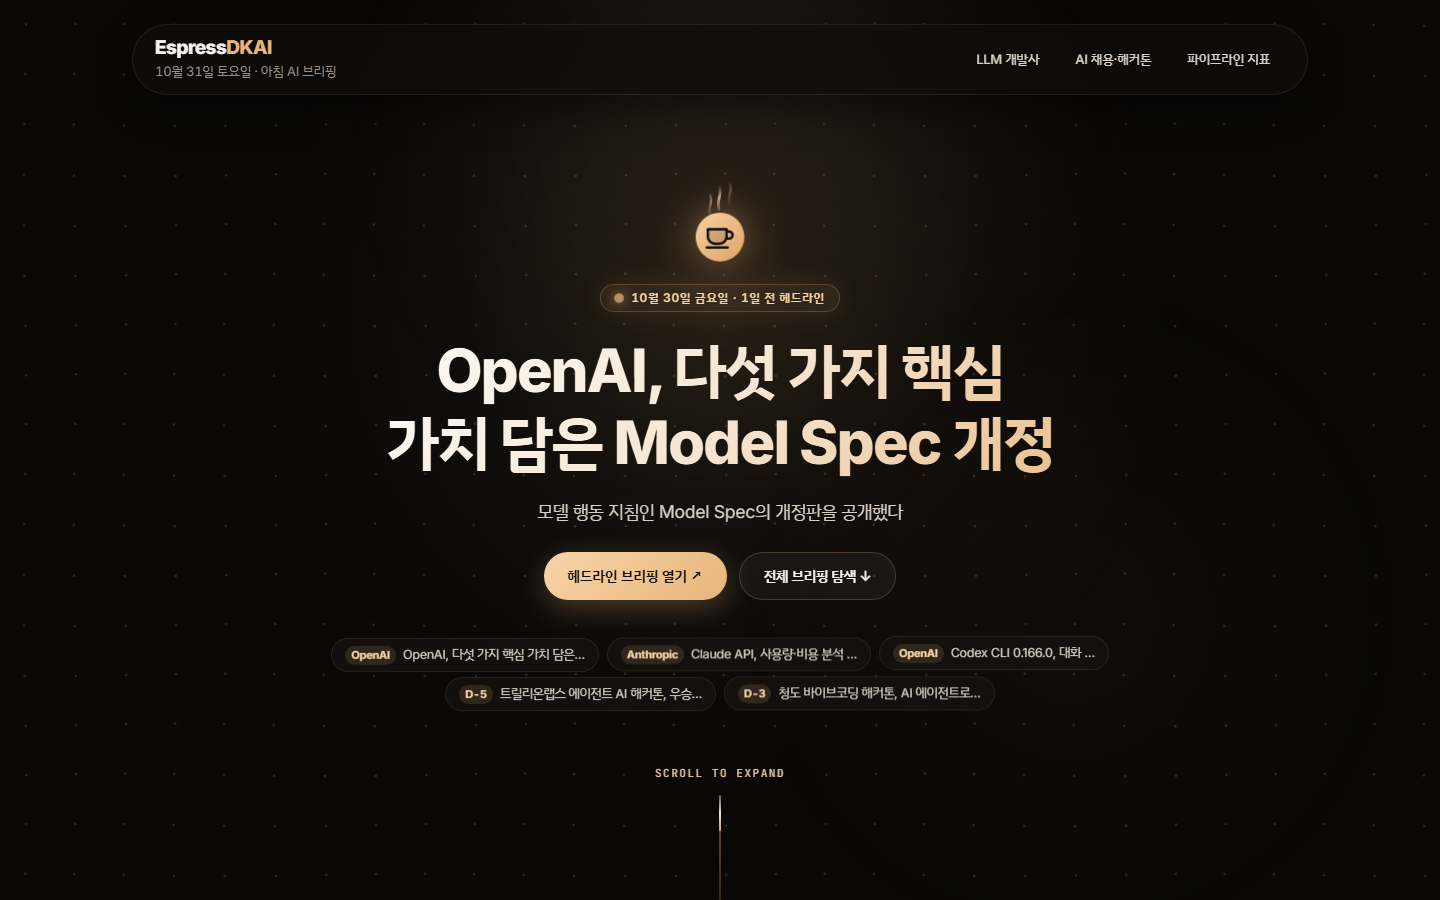
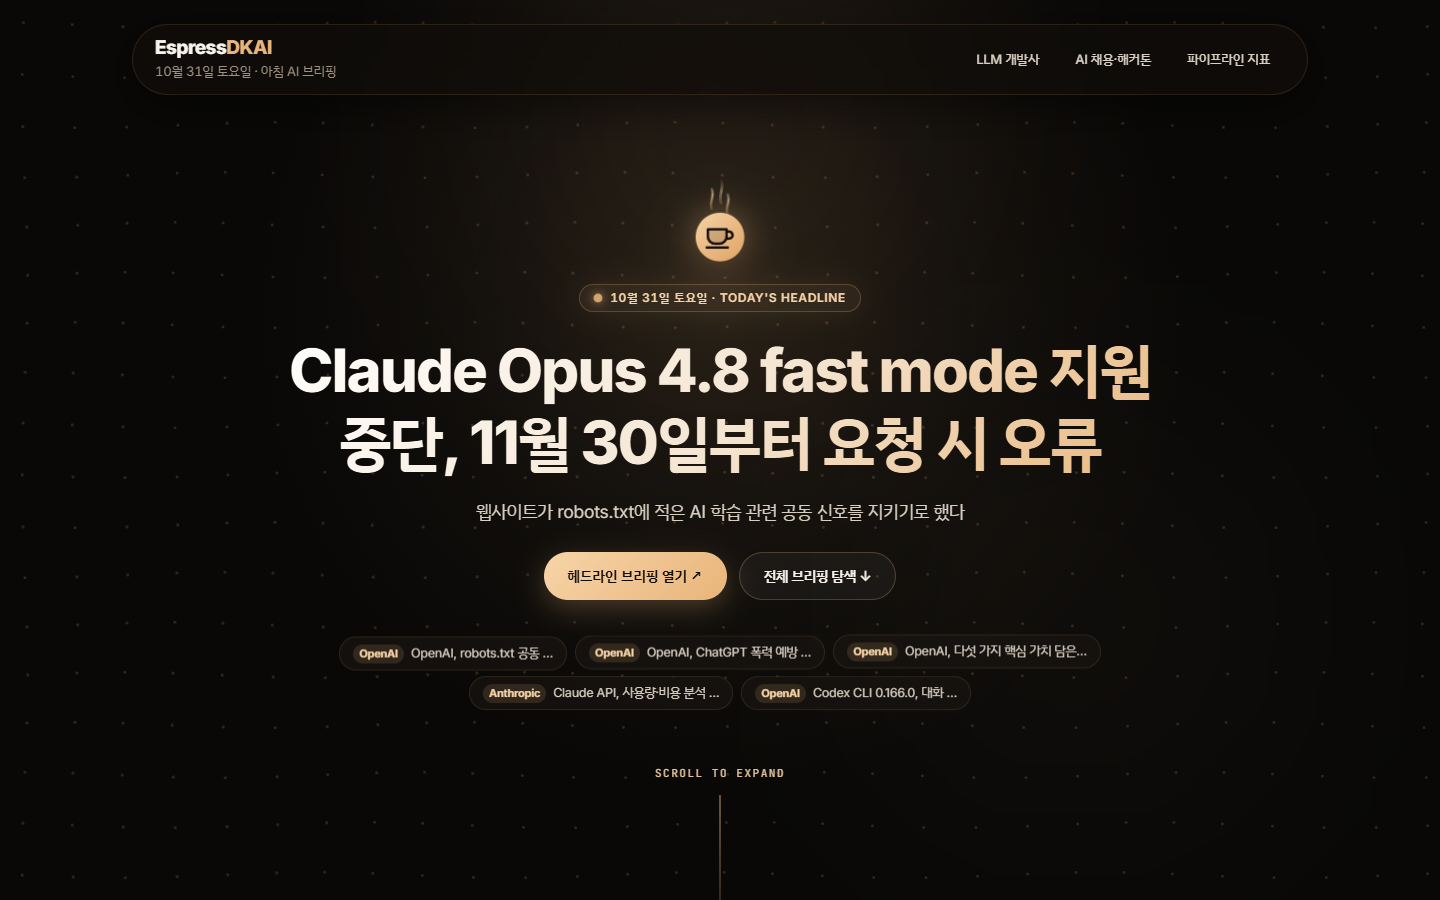
README 검토 반영: 판단 주체, 오늘 기준 스크린샷, 운영 수치

diff --git a/README.md b/README.md
@@ -2,6 +2,7 @@
 
 **AI 채용·해커톤 소식과 주요 AI 기업 소식을 매일 아침 한 장으로.**
 AI가 모으고 검증하고, 사람이 승인한 것만 공개하는 브리핑 사이트.
+기획·구현·디자인·검수를 여러 AI에 나눠 맡기고, 공개 여부는 사람이 정하는 구조로 만들었다.
 
 **[브리핑 보기 →](https://ekzmzm79-github.github.io/EspressDKAI/)**
 
@@ -14,7 +15,7 @@ AI가 모으고 검증하고, 사람이 승인한 것만 공개하는 브리핑 
 
 ## 무엇을 하나
 
-매일 아침 7시 23분, AI가 두 가지 소식을 모아 한 장짜리 웹페이지 초안을 만든다.
+매일 아침 7시 23분(정각과 30분은 예약이 몰려 피했다), AI가 두 가지 소식을 모아 한 장짜리 웹페이지 초안을 만든다.
 
 | 섹션 | 출처 | 화면 |
 |---|---|---|
@@ -26,47 +27,44 @@ AI가 모으고 검증하고, 사람이 승인한 것만 공개하는 브리핑 
 - 한 번 공개한 사건은 다시 싣지 않는다
 
 <p>
-  <img src="docs/images/site-mobile-hero.jpg" width="49%" alt="휴대폰 첫 화면">
-  <img src="docs/images/site-mobile-cards.jpg" width="49%" alt="휴대폰 카드 섹션">
+  <img src="docs/images/site-mobile-hero.png" width="300" alt="휴대폰 첫 화면">
+  <img src="docs/images/site-mobile-cards.png" width="300" alt="휴대폰 카드 섹션">
 </p>
 
 ## 어떻게 돌아가나
 
 ![브리핑 흐름: Claude 수집 → PR과 자동 검사 → 사람 확인 → 공개](docs/images/flow.png)
 
-- **AI가 하는 일은 아침 수집 하나뿐이다.** 검사, 배포, 거절 기록은 모두 GitHub Actions 스크립트가 맡는다.
-- **공개는 사람이 정한다.** AI가 가져온 안건이 AI가 알 수 없는 맥락 때문에 맞지 않을 때가 있어서다. 휴대폰으로 PR을 보고 Merge하거나, 뺄 항목만 `/drop`하거나, 닫는다.
+- **AI가 맡는 건 아침 수집과 그 검증뿐이다.** 형식 검사, 배포, 거절 기록은 모두 GitHub Actions 스크립트가 맡는다.
+- **공개는 사람이 정한다.** AI가 가져온 안건이 AI가 알 수 없는 이유나 맥락 때문에 맞지 않을 때가 있어서다. 따로 관리 화면을 만들지 않고 GitHub PR을 승인 화면으로 썼다. 휴대폰에서 PR의 검사 결과(✅/❌)를 보고 Merge하거나, 뺄 항목만 `/drop`하거나, 닫는다.
 - **승인을 깜빡해도 꼬이지 않는다.** 열린 브리핑 PR이 있으면 다음 날 실행이 같은 PR에 이어 쓴다.
-- **AI의 초안은 다른 AI가 원문과 대조한다.** 초안을 쓴 맥락을 모르는 별도 에이전트가 기사 원문과 문장을 하나씩 맞춰 보고, 근거 없는 주장은 지운다.
+- **AI의 초안은 다른 AI가 원문과 대조한다.** 초안을 쓴 맥락을 모르는 별도 에이전트가 기사 원문과 문장을 하나씩 맞춰 보고, 근거 없는 주장은 지운다. 그 뒤 스크립트가 데이터 형식, 날짜, 인용 길이(40자 이하)를 기계적으로 검사한다.
 
 ## AI와 함께 만든 방식
 
-기획부터 운영까지 여러 AI 세션과 모델에 역할을 나눠 맡기고, 판단은 사람이 했다.
+기획부터 운영까지 여러 AI 세션과 모델에 역할을 나눠 맡기고, 판단은 사람이 했다. 코드는 바이브 코딩 방식으로 진행했다.
 
 1. **기획**: 기획안을 쓰는 세션과 검토하는 세션(Gemini, 다른 세션의 Claude, ChatGPT)을 나눴다. 한 세션이 자기 맥락 안에서 놓치는 것을 다른 시각으로 잡기 위해서다.
 2. **구현**: 개정된 기획안을 새 진행 세션에 넘겨 한 번 더 훑고, 단계별(M0~M3)로 만들었다.
-3. **디자인**: Claude가 데모를 만들고, Gemini가 방향 지시대로 개편하고, 다시 Claude가 검수했다.
+3. **디자인**: Claude가 데모를 만들고, 내가 정한 방향대로 Gemini가 개편하고, 다시 Claude가 검수했다. 써 보니 UX·디자인은 Gemini가 나았고, 검수는 만든 쪽과 다른 눈이 필요했다.
 4. **운영**: 매일 아침 Claude 클라우드 루틴이 [작업 규칙](docs/runbook.md)을 따라 실행한다.
 
 ### 판단의 순간들
 
-- **승인을 깜빡해도 꼬이지 않는 PR 흐름.** 기획서는 매일 새 PR을 여는 방식이었다. 검토 중에 "승인을 미루면 같은 소식이 또 올라오고, 두 PR이 충돌한다"는 문제가 나왔다. 주기를 일주일로 늘리는 안은 버렸다. 매일 흐름을 보는 게 목적이고, 마감이 주중에 지나가기 때문이다. 대신 열린 PR 하나에 이어 쓰는 방식을 골랐고, 실제 GitHub에서 두 번째 실행이 같은 PR에 붙는 것까지 확인했다. ([#8](https://github.com/ekzmzm79-github/EspressDKAI/pull/8))
+- **승인을 깜빡해도 꼬이지 않는 PR 흐름.** 기획서는 매일 새 PR을 여는 방식이었다. 진행 세션의 Claude가 기획서를 검토하다 "승인을 미루면 같은 소식이 또 올라오고, 두 PR이 충돌한다"고 짚었다. 나는 주기를 일주일로 늘리는 안을 버렸다. 매일 흐름을 보는 게 목적이고, 마감이 주중에 지나가기 때문이다. 대신 Claude가 제안한 이어 쓰기, 즉 열린 PR 하나에 그날 파일을 덧붙이는 방식을 골랐다. 실제 GitHub에서 두 번째 실행이 같은 PR에 붙는 것까지 확인했다. ([#8](https://github.com/ekzmzm79-github/EspressDKAI/pull/8))
 - **교차 검토를 한 번에서 끊다.** 모델끼리 검토 의견에 의견이 꼬리를 물었지만, 품질은 소수점을 맞추는 수준으로만 올랐다. 검토는 한 번에서 끊고 직접 만들어 보며 맞춰 가기로 했다. 외부 검토는 결과물이 나온 뒤 디자인 단계로 옮겼다.
-- **다른 모델의 디자인 개편을 검수하다.** Gemini의 개편을 Claude가 휴대폰·PC 화면, 키보드 조작, 접근성 검사, "9일 뒤에 연 화면"까지 확인해 8건을 고쳤다. 실제로는 수동 실행인데 "자동 수집"이라 적힌 문구, 모달 밖으로 빠지는 Tab 키, 오래된 헤드라인이 첫 화면을 차지하는 문제 등이다. ([#16](https://github.com/ekzmzm79-github/EspressDKAI/pull/16)~[#19](https://github.com/ekzmzm79-github/EspressDKAI/pull/19))
+- **다른 모델의 디자인 개편을 검수하다.** 디자인을 개편한 모델(Gemini)과 검수하는 모델(Claude)을 나눴다. 검수는 휴대폰·PC 화면, 키보드 조작, 접근성 검사, "9일 뒤에 연 화면"까지 봤다. 실제로는 수동 실행인데 "자동 수집"이라 적힌 문구, 모달 밖으로 빠지는 Tab 키, 오래된 헤드라인이 첫 화면을 차지하는 문제 등이 나왔다. 제안 중 장식 수준의 라벨 하나는 그대로 두기로 하고, 나머지 8건을 고쳤다. ([#16](https://github.com/ekzmzm79-github/EspressDKAI/pull/16)~[#19](https://github.com/ekzmzm79-github/EspressDKAI/pull/19))
 
 ## 화면이 바뀐 과정
 
 에스프레소 다크, 아침 신문, 스와이프 카드뉴스 세 시안을 비교해 에스프레소의 색감과 넘기는 카드를 골랐다.
-Claude가 만든 데모(왼쪽)는 첫 화면을 헤드라인과 실행 지표가 나눠 가졌다. Gemini 개편에서는 첫 화면이 헤드라인 하나에 집중하고, 지표는 아래로 내려갔다.
+Claude가 만든 데모(아래)는 첫 화면을 헤드라인과 실행 지표가 나눠 가졌다. Gemini 개편에서는 첫 화면이 헤드라인 하나에 집중하고, 지표는 아래로 내려갔다(맨 위 화면).
 
-<p>
-  <img src="docs/images/demo-desktop.png" width="49%" alt="개편 전 데모 (10-30)">
-  <img src="docs/images/site-desktop.png" width="49%" alt="개편 후 (10-31)">
-</p>
+<img src="docs/images/demo-desktop.png" width="600" alt="개편 전 데모 (10-30)">
 
 ## 현재 상태
 
-2026-10-28 시작, 10-30 첫 브리핑 공개.
+2026-10-28 시작, 10-30 첫 브리핑 공개. 10-31까지 브리핑 2회, 공개 항목 8건, 원문 대조로 고친 곳 19곳. 예약 실행 1회는 약 4분 걸린다.
 
 - **끝난 것**: 데이터 형식과 검사, 이어 쓰기 PR, GitHub Pages 배포, 디자인 개편과 검수, 매일 아침 예약 실행(10-31부터)
 - **남은 것**: 몇 차례 연속으로 그대로 승인되면 정오 자동 Merge 켜기. 그 뒤에도 사람이 끼어들 수 있는 구조는 그대로 둔다.
